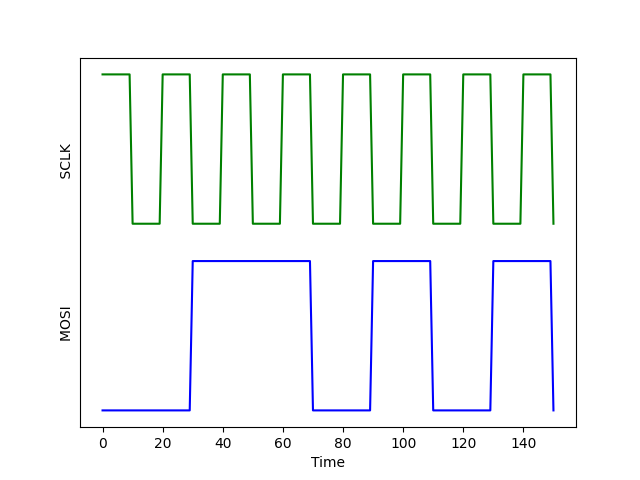
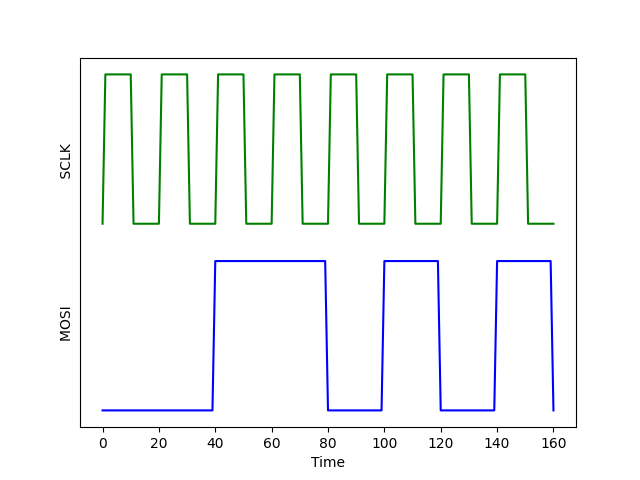
* Updated clock interpretation logic * Fixed expected images

diff --git a/.stm32f407vg/run.py b/.stm32f407vg/run.py
@@ -121,10 +121,9 @@ class Runner:
                         clk += [1.25 + signals[-1]['clk']]
                         mosi += [signals[-1]['mosi']]
             # Plot the data in reverse to mimic a scope
-            clk.reverse()
             mosi.reverse()
 
-            plt.plot(time, clk[10:]+[1.25]*10, 'green')
+            plt.plot(time, clk, 'green')
             plt.plot(time, mosi, 'blue')
             plt.yticks([])
             plt.xlabel("Time")
